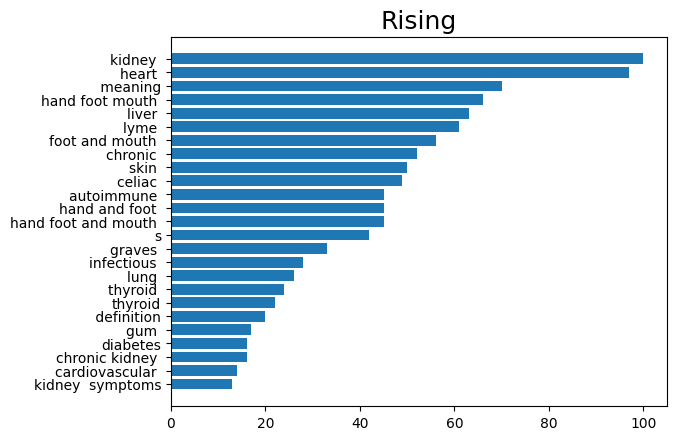
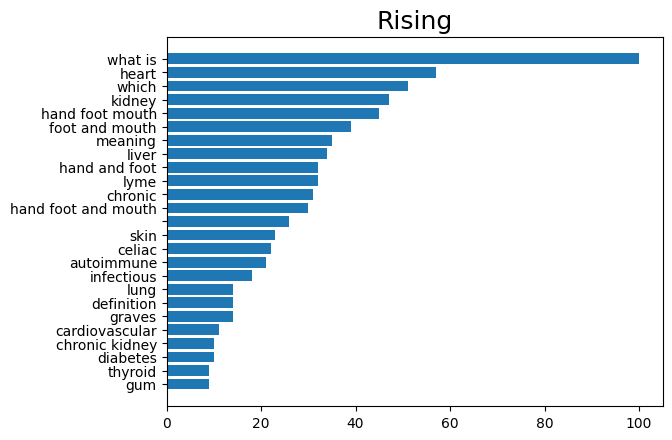
lowercase and remove space

diff --git a/trends.py b/trends.py
@@ -13,8 +13,12 @@ df=df_related_queries.append(df_related_topics,ignore_index=True)
 #merge
 df_related_topics.columns=df_related_queries.columns
 df=df_related_queries.append(df_related_topics,ignore_index=True)
-df['disease']=df['query'].str.replace('disease','')
-df= df.sort_values('value',ascending = True)
+df = df.sort_values('value', ascending=True)
+df['disease'] = df['query'].str.split().str.join(' ')
+df['disease'] = df['disease'].str.lower()
+df['disease'] = df['disease'].str.replace('diseases', '')
+df['disease'] = df['disease'].str.replace('disease', '')
+df['disease'] = df['disease'].str.strip()
 #data = pytrends.interest_over_time() 
 #data = data.reset_index() 
 #data.save("data.csv")
